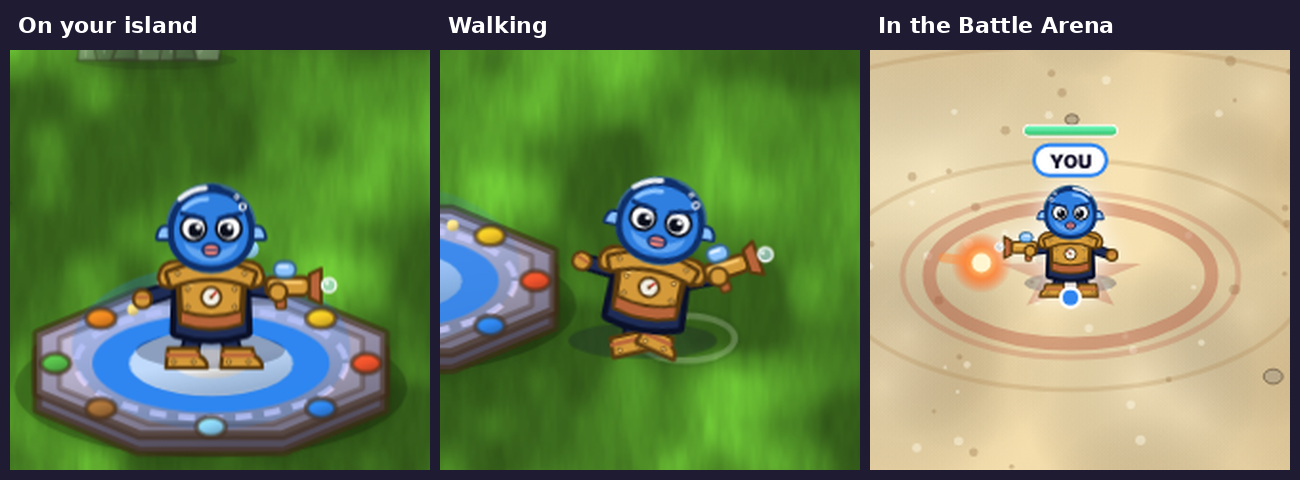
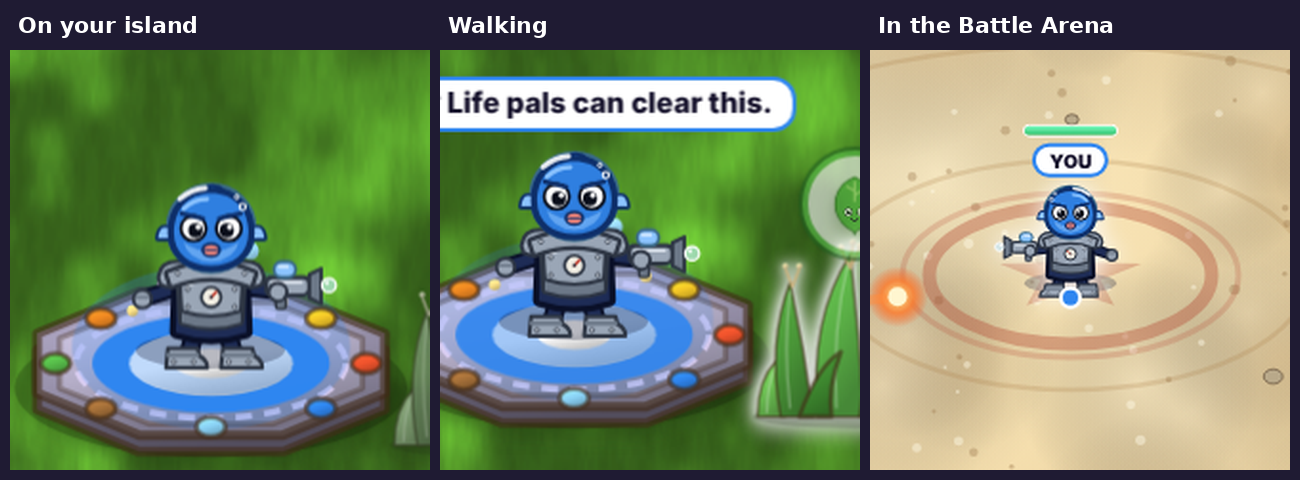
Preview: fish trooper with steel armour and blaster
Claude-Session: https://claude.ai/code/session_01VLdLc5ictpYJybhtPWKJ3B

diff --git a/src/previews/diver.js b/src/previews/diver.js
@@ -1,19 +1,19 @@
 /* Bubble Trooper (no name yet): an original blue fish soldier: a round blue fish face inside a water-filled glass dome helmet,
-   a brass and copper deep-sea armour suit with rivets over a navy undersuit, heavy boots, and a brass bubble blaster with an air
+   a steel deep-sea armour suit with rivets over a navy undersuit, heavy steel boots, and a steel bubble blaster with an air
    tank (Water, ranged). (preview only) */
-var DV = { F: '#2f7fe0', FD: '#0e2f6a', FL: '#8cc4ff', FB: '#ffd23a', G: '#bfe8ff', GD: '#3a6a8a', BR: '#d49a3a', BRD: '#5a3a0e', BRL: '#ffd27a', CU: '#b8643a', N: '#1e2c56', ND: '#0a1028' };
+var DV = { F: '#2f7fe0', FD: '#0e2f6a', FL: '#8cc4ff', FB: '#ffd23a', G: '#bfe8ff', GD: '#3a6a8a', BR: '#9aa6b6', BRD: '#2e3644', BRL: '#dfe6ef', CU: '#6c7888', N: '#1e2c56', ND: '#0a1028' };
 function dvRivets(pts){ var D = DV; return pts.map(function(p){ return '<circle cx="' + p[0] + '" cy="' + p[1] + '" r="1.1" fill="' + D.BRL + '" stroke="' + D.BRD + '" stroke-width=".7"/>'; }).join(''); }
 function dvArt(){
   var D = DV, O = '#0a0e1a';
   return wrapSvg(
-    /* navy undersuit, brass chest plate with a copper band, a round air gauge */
+    /* navy undersuit, steel chest plate with a darker band, a round air gauge */
     outlined('<path d="M33 60Q50 54 67 60L68 86Q50 92 32 86Z"/>', D.N, D.ND) +
     outlined('<path d="M35 60Q50 55 65 60L64 78Q50 83 36 78Z"/>', D.BR, D.BRD) +
     '<path d="M38 62Q42 59 47 59" fill="none" stroke="' + D.BRL + '" stroke-width="2" stroke-linecap="round"/>' +
     outlined('<path d="M35 76Q50 81 65 76L65 81Q50 86 35 81Z"/>', D.CU, D.BRD, 1.8) +
     '<circle cx="50" cy="68" r="5" fill="#f2efe4" stroke="' + D.BRD + '" stroke-width="1.6"/><path d="M50 68L52.6 65.4" stroke="#c0382a" stroke-width="1.3" stroke-linecap="round"/><circle cx="50" cy="68" r="0.9" fill="' + D.BRD + '"/>' +
     dvRivets([[38, 64], [62, 64], [38, 73], [62, 73]]) +
-    /* brass diving collar */
+    /* steel diving collar */
     outlined('<path d="M28 56Q50 46 72 56L70 62Q50 54 30 62Z"/>', D.BR, D.BRD, 2.2) + dvRivets([[33, 56], [42, 52.6], [50, 51.6], [58, 52.6], [67, 56]]) +
     /* glass dome helmet full of water */
     '<circle cx="50" cy="33" r="22" fill="' + D.G + '" fill-opacity=".55" stroke="' + D.GD + '" stroke-width="2.4"/>' +
@@ -44,7 +44,7 @@ function dvBack(c){
       '<path d="M' + x1 + ' ' + y1 + 'L' + x2 + ' ' + y2 + '" stroke="' + D.N + '" stroke-width="5.4" stroke-linecap="round"/>';
   }
   function glove(x, y){ return '<circle cx="' + x + '" cy="' + y + '" r="4.6" fill="' + D.BR + '" stroke="' + D.BRD + '" stroke-width="1.8"/><path d="M' + (x - 3) + ' ' + (y - 1) + 'H' + (x + 3) + '" stroke="' + D.CU + '" stroke-width="1.4" stroke-linecap="round"/>'; }
-  /* brass shoulder pads */
+  /* steel shoulder pads */
   var pads = outlined('<path d="M24 58Q25 50 35 51L36 61Q29 63 25 61Z"/><path d="M76 58Q75 50 65 51L64 61Q71 63 75 61Z"/>', D.BR, D.BRD, 2) + dvRivets([[29, 56], [71, 56]]);
   return '<svg class="limbs" viewBox="0 0 100 100" aria-hidden="true" style="overflow:visible">' + leg('lgL', 42, 39, 36) + leg('lgR', 58, 61, 64) +
     '<g><g class="pump pL">' + arm(33, 63, 18, 68) + glove(15, 69) + '</g></g>' +
@@ -52,7 +52,7 @@ function dvBack(c){
 }
 function dvFront(c){
   var D = DV;
-  /* brass bubble blaster: a round air tank on top, a flared bell muzzle, and a bubble ready to go */
+  /* steel bubble blaster: a round air tank on top, a flared bell muzzle, and a bubble ready to go */
   var gun = '<g transform="rotate(-18 86 64)">' +
     '<rect x="78" y="58" width="22" height="9" rx="3" fill="' + D.BR + '" stroke="' + D.BRD + '" stroke-width="2"/>' +
     '<path d="M81 60.5H96" stroke="' + D.BRL + '" stroke-width="1.6" stroke-linecap="round"/>' +

diff --git a/HANDOFF.md b/HANDOFF.md
@@ -21,7 +21,7 @@ Test version (claude.ai artifact, owner's private test page): https://claude.ai/
 
 **Game rule: no passive health regeneration in any minigame.** Food drops are the only way to heal (Guard Post, Boss Raid, Island Quest). Island Quest used to heal 7%/s after 4 s out of a fight; that was removed. Do not add it to new minigames. Test: `node src/mock2/tqregen.js`.
 
-**Special pals (`c.body`):** hand-drawn bodies picked under "Look" in the New pal form: `eagle` (Sky Eagle, Air, ranged, arm cannon), `wyrm` (Grave Dragon, Undead, ranged, purple lightning shots via `shotLook` / `drawZap`, also sent as 'zap' in arena snapshots and as a flag in quest `Z`), `knight` (Skeleton Knight, Undead, melee, sword and shield), `mecha` (Wheel Bot, the owner's yellow robot on a wheel, Tech, ranged, always Giant), `cyc` (Iron Cyclops, the one-eyed soldier with the all-black helmet, Undead, melee with fists, always Giant), `rogue` (Masked Rogue, slim human girl in leather with a green eye mask and bandana, dark blue ponytail, two daggers, Life, melee, Normal), `md` (Mech Dragon, the owner's green dino-dragon in blue-and-gold mech gear with lens eyes and a wrist blaster, Tech, ranged, Normal), `sh` (Mushroom Guy, the owner's yellow one-eyed mushroom with a red spotted cap and red clawed gloves, holding a little mushroom over his glove, Life, ranged, Normal). `tk` (Technician, the owner's technician girl, Tech, melee, Normal). Drawing: (`tinker.js`, `tinker_preview.png`: red bob, blue armour with gold gear emblems, brown suit, blue bracers and boots with gold bands, big double-ended wrench, tech goggles with brass rims and tinted lenses worn over her eyes). `ar` (Arcane Dragon, an original dark-purple magic dragon: fiery orange crystal horns and tail crystal (fireball colours), dark gold cheek runes, wing tips, toe claws and sparkles, amber slit eyes, starry-night wings, lavender belly, holds a magic fireball; Magic, ranged, Normal; `arcane.js`). The owner asked for the small blue bits to be dark yellow; for the horns and tail crystal they then asked for a fiery yellow like the fireball; they were made fire-orange with yellow glints instead of flat yellow, to stay clear of the famous purple fire dragon (gold horns + gold tail tip). Do not make them yellow/gold. `go` (Rock Golem, Earth, ranged, Normal): the owner's rock golem (`golem.js`, `golem_preview.png`: rounded stone blocks, boulder head with a heavy brow, glowing orange eyes and a jagged grin, a glowing green chest crystal, small knee crystals, big rock fists holding green crystals he throws; Earth, ranged). At first declined as a Prism Break look-alike; the owner pointed out it's a generic MMO-style golem who throws crystals rather than being covered in them, which was accepted. Keep crystals in his hands, chest and knees only (no big clusters on back/shoulders). Previewed, not added: an original blue fish trooper (`diver.js`, `diver_preview.png`: round blue fish face inside a water-filled glass dome helmet, brass and copper deep-sea suit with rivets and a gauge over a navy undersuit, brass bubble blaster with an air tank; Water, ranged). The owner's teal armoured fish-warrior drawings (spear, then pistol) were declined as Gill Grunt (Skylanders) look-alikes; do not build teal/blue fish warriors in silver armour with a spear, harpoon or gun. `sn` (Winged Sentinel): a winged armoured warrior in yellow and black (`sentinel.js`, `sentinel_preview.png`: knight helmet with two curved yellow horns, with a black visor and white eye slits, black crest, breastplate with a black chevron, black shoulder guards, a big silver blade-wing hanging down behind each shoulder, solid plates without stripes, yellow gauntlets with blue gems and one big blue-steel blade sticking out of each; Air, melee, Giant). The owner's bee-warrior drawings were declined as Swarm (Skylanders) look-alikes; keep this one free of bee features (antennae, insect eyes or wings, stripes, stinger). Size is locked too (`giant` in `PAL_BODIES`): the first three are always Normal, the Wheel Bot always Giant; `cleanChar` forces it on load. `PAL_BODIES` holds label, locked element, locked style and the `art` / `back` / `front` drawing functions (from `src/previews/*.js`, now copied into the game). `cleanChar` keeps `body` and forces the element and style to match; `coopChar` sends it to friends. `palFigure` draws the full figure; `palArt` returns the full figure in a `.pbody` wrapper (cards, form preview). Picture upload is hidden for them. The player still names them. Test: `node src/mock2/tbodies.js <outdir>`.
+**Special pals (`c.body`):** hand-drawn bodies picked under "Look" in the New pal form: `eagle` (Sky Eagle, Air, ranged, arm cannon), `wyrm` (Grave Dragon, Undead, ranged, purple lightning shots via `shotLook` / `drawZap`, also sent as 'zap' in arena snapshots and as a flag in quest `Z`), `knight` (Skeleton Knight, Undead, melee, sword and shield), `mecha` (Wheel Bot, the owner's yellow robot on a wheel, Tech, ranged, always Giant), `cyc` (Iron Cyclops, the one-eyed soldier with the all-black helmet, Undead, melee with fists, always Giant), `rogue` (Masked Rogue, slim human girl in leather with a green eye mask and bandana, dark blue ponytail, two daggers, Life, melee, Normal), `md` (Mech Dragon, the owner's green dino-dragon in blue-and-gold mech gear with lens eyes and a wrist blaster, Tech, ranged, Normal), `sh` (Mushroom Guy, the owner's yellow one-eyed mushroom with a red spotted cap and red clawed gloves, holding a little mushroom over his glove, Life, ranged, Normal). `tk` (Technician, the owner's technician girl, Tech, melee, Normal). Drawing: (`tinker.js`, `tinker_preview.png`: red bob, blue armour with gold gear emblems, brown suit, blue bracers and boots with gold bands, big double-ended wrench, tech goggles with brass rims and tinted lenses worn over her eyes). `ar` (Arcane Dragon, an original dark-purple magic dragon: fiery orange crystal horns and tail crystal (fireball colours), dark gold cheek runes, wing tips, toe claws and sparkles, amber slit eyes, starry-night wings, lavender belly, holds a magic fireball; Magic, ranged, Normal; `arcane.js`). The owner asked for the small blue bits to be dark yellow; for the horns and tail crystal they then asked for a fiery yellow like the fireball; they were made fire-orange with yellow glints instead of flat yellow, to stay clear of the famous purple fire dragon (gold horns + gold tail tip). Do not make them yellow/gold. `go` (Rock Golem, Earth, ranged, Normal): the owner's rock golem (`golem.js`, `golem_preview.png`: rounded stone blocks, boulder head with a heavy brow, glowing orange eyes and a jagged grin, a glowing green chest crystal, small knee crystals, big rock fists holding green crystals he throws; Earth, ranged). At first declined as a Prism Break look-alike; the owner pointed out it's a generic MMO-style golem who throws crystals rather than being covered in them, which was accepted. Keep crystals in his hands, chest and knees only (no big clusters on back/shoulders). Previewed, not added: an original blue fish trooper (`diver.js`, `diver_preview.png`: round blue fish face inside a water-filled glass dome helmet, steel deep-sea diving suit with rivets and a gauge over a navy undersuit, steel bubble blaster with an air tank; Water, ranged). The owner's teal armoured fish-warrior drawings (spear, then pistol) were declined as Gill Grunt (Skylanders) look-alikes; do not build teal/blue fish warriors in silver armour with a spear, harpoon or gun. `sn` (Winged Sentinel): a winged armoured warrior in yellow and black (`sentinel.js`, `sentinel_preview.png`: knight helmet with two curved yellow horns, with a black visor and white eye slits, black crest, breastplate with a black chevron, black shoulder guards, a big silver blade-wing hanging down behind each shoulder, solid plates without stripes, yellow gauntlets with blue gems and one big blue-steel blade sticking out of each; Air, melee, Giant). The owner's bee-warrior drawings were declined as Swarm (Skylanders) look-alikes; keep this one free of bee features (antennae, insect eyes or wings, stripes, stinger). Size is locked too (`giant` in `PAL_BODIES`): the first three are always Normal, the Wheel Bot always Giant; `cleanChar` forces it on load. `PAL_BODIES` holds label, locked element, locked style and the `art` / `back` / `front` drawing functions (from `src/previews/*.js`, now copied into the game). `cleanChar` keeps `body` and forces the element and style to match; `coopChar` sends it to friends. `palFigure` draws the full figure; `palArt` returns the full figure in a `.pbody` wrapper (cards, form preview). Picture upload is hidden for them. The player still names them. Test: `node src/mock2/tbodies.js <outdir>`.
 
 **Pet facing:** every pet entry in `PETS` must have `face: 'left' | 'right' | 'front'` (which way its picture looks). `petFlip` mirrors it so it always looks where it walks. (This used to be a hand-kept list `PET_LEFT`; the Key Bird was missing from it and walked backwards.) A pet without `face` falls back to guessing from its eye positions and logs a console warning. When adding a pet, set `face` and run `node src/mock2/tpets.js` (must say PASS).
 
